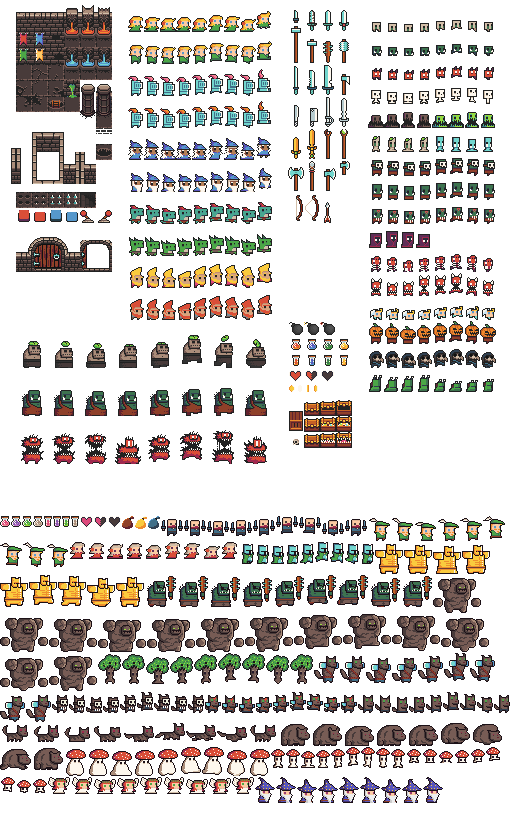
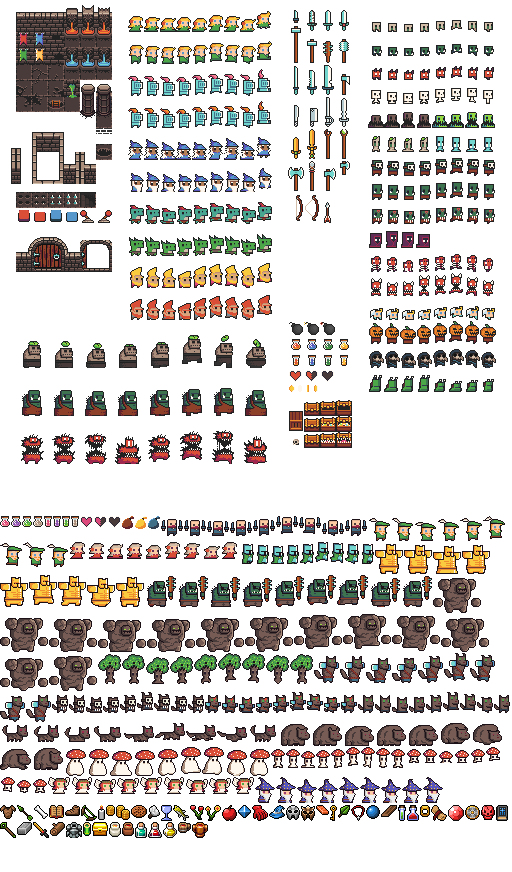
Add files via upload

diff --git a/play/assets/atlas.js b/play/assets/atlas.js
@@ -1,1 +1,1 @@
-window.ATLAS={"big_demon_idle_anim_f0":[16,428,32,36],"big_demon_idle_anim_f1":[48,428,32,36],"big_demon_idle_anim_f2":[80,428,32,36],"big_demon_idle_anim_f3":[112,428,32,36],"big_demon_run_anim_f0":[144,428,32,36],"big_demon_run_anim_f1":[176,428,32,36],"big_demon_run_anim_f2":[208,428,32,36],"big_demon_run_anim_f3":[240,428,32,36],"big_zombie_idle_anim_f0":[16,332,32,36],"big_zombie_idle_anim_f1":[48,332,32,36],"big_zombie_idle_anim_f2":[80,332,32,36],"big_zombie_idle_anim_f3":[112,332,32,36],"big_zombie_run_anim_f0":[144,332,32,36],"big_zombie_run_anim_f1":[176,332,32,36],"big_zombie_run_anim_f2":[208,332,32,36],"big_zombie_run_anim_f3":[240,332,32,36],"bomb_f0":[288,320,16,16],"bomb_f1":[304,320,16,16],"bomb_f2":[320,320,16,16],"chest_empty_open_anim_f0":[304,400,16,16],"chest_empty_open_anim_f1":[320,400,16,16],"chest_empty_open_anim_f2":[336,400,16,16],"chest_full_open_anim_f0":[304,416,16,16],"chest_full_open_anim_f1":[320,416,16,16],"chest_full_open_anim_f2":[336,416,16,16],"chest_mimic_open_anim_f0":[304,432,16,16],"chest_mimic_open_anim_f1":[320,432,16,16],"chest_mimic_open_anim_f2":[336,432,16,16],"coin_anim_f0":[289,385,6,7],"coin_anim_f1":[297,385,6,7],"coin_anim_f2":[305,385,6,7],"coin_anim_f3":[313,385,6,7],"flask_big_blue":[304,336,16,16],"flask_big_red":[288,336,16,16],"flask_big_green":[320,336,16,16],"flask_big_yellow":[336,336,16,16],"flask_blue":[304,352,16,16],"flask_red":[288,352,16,16],"flask_green":[320,352,16,16],"flask_yellow":[336,352,16,16],"wizzard_f_hit_anim_f0":[256,132,16,28],"wizzard_f_idle_anim_f0":[128,132,16,28],"wizzard_f_idle_anim_f1":[144,132,16,28],"wizzard_f_idle_anim_f2":[160,132,16,28],"wizzard_f_idle_anim_f3":[176,132,16,28],"wizzard_f_run_anim_f0":[192,132,16,28],"wizzard_f_run_anim_f1":[208,132,16,28],"wizzard_f_run_anim_f2":[224,132,16,28],"wizzard_f_run_anim_f3":[240,132,16,28],"wizzard_m_hit_anim_f0":[256,164,16,28],"wizzard_m_idle_anim_f0":[128,164,16,28],"wizzard_m_idle_anim_f1":[144,164,16,28],"wizzard_m_idle_anim_f2":[160,164,16,28],"wizzard_m_idle_anim_f3":[176,164,16,28],"wizzard_m_run_anim_f0":[192,164,16,28],"wizzard_m_run_anim_f1":[208,164,16,28],"wizzard_m_run_anim_f2":[224,164,16,28],"wizzard_m_run_anim_f3":[240,164,16,28],"dwarf_m_idle_anim_f0":[128,292,16,28],"imp_idle_anim_f0":[368,64,16,16],"imp_idle_anim_f1":[384,64,16,16],"imp_idle_anim_f2":[400,64,16,16],"imp_idle_anim_f3":[416,64,16,16],"imp_run_anim_f0":[432,64,16,16],"imp_run_anim_f1":[448,64,16,16],"imp_run_anim_f2":[464,64,16,16],"imp_run_anim_f3":[480,64,16,16],"lizard_f_hit_anim_f0":[256,196,16,28],"lizard_f_idle_anim_f0":[128,196,16,28],"lizard_f_idle_anim_f1":[144,196,16,28],"lizard_f_idle_anim_f2":[160,196,16,28],"lizard_f_idle_anim_f3":[176,196,16,28],"lizard_f_run_anim_f0":[192,196,16,28],"lizard_f_run_anim_f1":[208,196,16,28],"lizard_f_run_anim_f2":[224,196,16,28],"lizard_f_run_anim_f3":[240,196,16,28],"dwarf_m_idle_anim_f1":[144,292,16,28],"dwarf_m_idle_anim_f2":[160,292,16,28],"dwarf_m_idle_anim_f3":[176,292,16,28],"dwarf_m_run_anim_f0":[192,292,16,28],"dwarf_m_run_anim_f1":[208,292,16,28],"dwarf_m_run_anim_f2":[224,292,16,28],"dwarf_m_run_anim_f3":[240,292,16,28],"dwarf_m_hit_anim_f0":[256,292,16,28],"knight_f_hit_anim_f0":[256,68,16,28],"knight_f_idle_anim_f0":[128,68,16,28],"knight_f_idle_anim_f1":[144,68,16,28],"knight_f_idle_anim_f2":[160,68,16,28],"knight_f_idle_anim_f3":[176,68,16,28],"knight_f_run_anim_f0":[192,68,16,28],"knight_f_run_anim_f1":[208,68,16,28],"knight_f_run_anim_f2":[224,68,16,28],"knight_f_run_anim_f3":[240,68,16,28],"dwarf_f_idle_anim_f0":[128,260,16,28],"dwarf_f_idle_anim_f1":[144,260,16,28],"dwarf_f_idle_anim_f2":[160,260,16,28],"dwarf_f_idle_anim_f3":[176,260,16,28],"dwarf_f_run_anim_f0":[192,260,16,28],"dwarf_f_run_anim_f1":[208,260,16,28],"dwarf_f_run_anim_f2":[224,260,16,28],"dwarf_f_run_anim_f3":[240,260,16,28],"dwarf_f_hit_anim_f0":[256,260,16,28],"weapon_anime_sword":[322,65,12,30],"weapon_arrow":[324,202,7,21],"weapon_baton_with_spikes":[323,41,10,22],"weapon_big_hammer":[291,26,10,37],"weapon_bow":[289,195,14,26],"weapon_bow_2":[305,195,14,26],"weapon_double_axe":[288,167,16,24],"weapon_cleaver":[310,108,9,19],"weapon_duel_sword":[325,97,9,30],"weapon_golden_sword":[291,137,10,22],"weapon_green_magic_staff":[340,129,8,30],"weapon_hammer":[307,39,10,24],"weapon_katana":[293,66,6,29],"weapon_knife":[293,10,6,13],"weapon_knight_sword":[339,98,10,29],"weapon_lavish_sword":[307,129,10,30],"weapon_mace":[339,39,10,24],"weapon_saw_sword":[307,70,10,25],"weapon_machete":[294,105,5,22],"weapon_red_gem_sword":[339,10,10,21],"weapon_red_magic_staff":[324,129,8,30],"weapon_regular_sword":[323,10,10,21],"weapon_rusty_sword":[307,10,10,21],"weapon_spear":[309,161,6,30],"weapon_waraxe":[324,168,12,23],"weapon_throwing_axe":[340,161,10,14],"weapon_axe":[341,74,9,21],"wogol_idle_anim_f0":[368,249,16,23],"wogol_idle_anim_f1":[384,249,16,23],"wogol_idle_anim_f2":[400,249,16,23],"wogol_idle_anim_f3":[416,249,16,23],"wogol_run_anim_f0":[432,249,16,23],"wogol_run_anim_f1":[448,249,16,23],"wogol_run_anim_f2":[464,249,16,23],"wogol_run_anim_f3":[480,249,16,23],"zombie_anim_f10":[368,136,16,16],"zombie_anim_f1":[384,136,16,16],"zombie_anim_f2":[400,136,16,16],"zombie_anim_f3":[416,136,16,16],"tiny_zombie_idle_anim_f0":[368,16,16,16],"tiny_zombie_idle_anim_f1":[384,16,16,16],"tiny_zombie_idle_anim_f2":[400,16,16,16],"tiny_zombie_idle_anim_f3":[416,16,16,16],"tiny_zombie_run_anim_f0":[432,16,16,16],"tiny_zombie_run_anim_f1":[448,16,16,16],"tiny_zombie_run_anim_f2":[464,16,16,16],"tiny_zombie_run_anim_f3":[480,16,16,16],"goblin_idle_anim_f0":[368,40,16,16],"goblin_idle_anim_f1":[384,40,16,16],"goblin_idle_anim_f2":[400,40,16,16],"goblin_idle_anim_f3":[416,40,16,16],"goblin_run_anim_f0":[432,40,16,16],"goblin_run_anim_f1":[448,40,16,16],"goblin_run_anim_f2":[464,40,16,16],"goblin_run_anim_f3":[480,40,16,16],"ice_zombie_anim_f0":[432,136,16,16],"ice_zombie_anim_f1":[448,136,16,16],"ice_zombie_anim_f2":[464,136,16,16],"ice_zombie_anim_f3":[480,136,16,16],"knight_m_idle_anim_f0":[128,100,16,28],"knight_m_idle_anim_f1":[144,100,16,28],"knight_m_idle_anim_f2":[160,100,16,28],"knight_m_idle_anim_f3":[176,100,16,28],"knight_m_run_anim_f0":[192,100,16,28],"knight_m_run_anim_f1":[208,100,16,28],"knight_m_run_anim_f2":[224,100,16,28],"knight_m_run_anim_f3":[240,100,16,28],"knight_m_hit_anim_f0":[256,100,16,28],"crate":[288,408,16,24],"edge_down":[96,128,16,16],"orc_shaman_idle_anim_f0":[368,201,16,23],"orc_shaman_idle_anim_f1":[384,201,16,23],"orc_shaman_idle_anim_f2":[400,201,16,23],"orc_shaman_idle_anim_f3":[416,201,16,23],"orc_shaman_run_anim_f0":[432,201,16,23],"orc_shaman_run_anim_f1":[448,201,16,23],"orc_shaman_run_anim_f2":[464,201,16,23],"orc_shaman_run_anim_f3":[480,201,16,23],"swampy_anim_f0":[432,112,16,16],"swampy_anim_f1":[448,112,16,16],"swampy_anim_f2":[464,112,16,16],"swampy_anim_f3":[480,112,16,16],"muddy_anim_f0":[368,112,16,16],"muddy_anim_f1":[384,112,16,16],"muddy_anim_f2":[400,112,16,16],"muddy_anim_f3":[416,112,16,16],"necromancer_anim_f0":[368,225,16,23],"necromancer_anim_f1":[384,225,16,23],"necromancer_anim_f2":[400,225,16,23],"necromancer_anim_f3":[416,225,16,23],"masked_orc_idle_anim_f0":[368,153,16,23],"masked_orc_idle_anim_f1":[384,153,16,23],"masked_orc_idle_anim_f2":[400,153,16,23],"masked_orc_idle_anim_f3":[416,153,16,23],"masked_orc_run_anim_f0":[432,153,16,23],"masked_orc_run_anim_f1":[448,153,16,23],"masked_orc_run_anim_f2":[464,153,16,23],"masked_orc_run_anim_f3":[480,153,16,23],"orc_warrior_idle_anim_f0":[368,177,16,23],"orc_warrior_idle_anim_f1":[384,177,16,23],"orc_warrior_idle_anim_f2":[400,177,16,23],"orc_warrior_idle_anim_f3":[416,177,16,23],"orc_warrior_run_anim_f0":[432,177,16,23],"orc_warrior_run_anim_f1":[448,177,16,23],"orc_warrior_run_anim_f2":[464,177,16,23],"orc_warrior_run_anim_f3":[480,177,16,23],"skelet_idle_anim_f0":[368,88,16,16],"skelet_idle_anim_f1":[384,88,16,16],"skelet_idle_anim_f2":[400,88,16,16],"skelet_idle_anim_f3":[416,88,16,16],"skelet_run_anim_f0":[432,88,16,16],"skelet_run_anim_f1":[448,88,16,16],"skelet_run_anim_f2":[464,88,16,16],"skelet_run_anim_f3":[480,88,16,16],"skull":[288,432,16,16],"ogre_idle_anim_f0":[16,380,32,36],"ogre_idle_anim_f1":[48,380,32,36],"ogre_idle_anim_f2":[80,380,32,36],"ogre_idle_anim_f3":[112,380,32,36],"ogre_run_anim_f0":[144,380,32,36],"ogre_run_anim_f1":[176,380,32,36],"ogre_run_anim_f2":[208,380,32,36],"ogre_run_anim_f3":[240,380,32,36],"ui_heart_empty":[321,370,13,12],"ui_heart_full":[289,370,13,12],"ui_heart_half":[305,370,13,12],"doc_idle_anim_f0":[368,345,16,23],"doc_idle_anim_f1":[384,345,16,23],"doc_idle_anim_f2":[400,345,16,23],"doc_idle_anim_f3":[416,345,16,23],"doc_run_anim_f0":[432,345,16,23],"doc_run_anim_f1":[448,345,16,23],"doc_run_anim_f2":[464,345,16,23],"doc_run_anim_f3":[480,345,16,23],"pumpkin_dude_idle_anim_f0":[368,321,16,23],"pumpkin_dude_idle_anim_f1":[384,321,16,23],"pumpkin_dude_idle_anim_f2":[400,321,16,23],"pumpkin_dude_idle_anim_f3":[416,321,16,23],"pumpkin_dude_run_anim_f0":[432,321,16,23],"pumpkin_dude_run_anim_f1":[448,321,16,23],"pumpkin_dude_run_anim_f2":[464,321,16,23],"pumpkin_dude_run_anim_f3":[480,321,16,23],"angel_idle_anim_f0":[368,304,16,16],"angel_idle_anim_f1":[384,304,16,16],"angel_idle_anim_f2":[400,304,16,16],"angel_idle_anim_f3":[416,304,16,16],"angel_run_anim_f0":[432,304,16,16],"angel_run_anim_f1":[448,304,16,16],"angel_run_anim_f2":[464,304,16,16],"angel_run_anim_f3":[480,304,16,16],"chort_idle_anim_f0":[368,273,16,23],"chort_idle_anim_f1":[384,273,16,23],"chort_idle_anim_f2":[400,273,16,23],"chort_idle_anim_f3":[416,273,16,23],"chort_run_anim_f0":[432,273,16,23],"chort_run_anim_f1":[448,273,16,23],"chort_run_anim_f2":[464,273,16,23],"chort_run_anim_f3":[480,273,16,23],"column":[80,80,16,48],"column_wall":[96,80,16,48],"wall_fountain_mid_blue_anim_f0":[64,48,16,16],"wall_fountain_mid_blue_anim_f1":[80,48,16,16],"wall_fountain_mid_blue_anim_f2":[96,48,16,16],"wall_fountain_mid_red_anim_f0":[64,16,16,16],"wall_fountain_mid_red_anim_f1":[80,16,16,16],"wall_fountain_mid_red_anim_f2":[96,16,16,16],"wall_fountain_basin_red_anim_f0":[64,32,16,16],"wall_fountain_basin_red_anim_f1":[80,32,16,16],"wall_fountain_basin_red_anim_f2":[96,32,16,16],"wall_fountain_basin_blue_anim_f0":[64,64,16,16],"wall_fountain_basin_blue_anim_f1":[80,64,16,16],"wall_fountain_basin_blue_anim_f2":[96,64,16,16],"wall_goo_base":[64,96,16,16],"wall_goo":[64,80,16,16],"wall_hole_1":[48,32,16,16],"wall_hole_2":[48,48,16,16],"wall_banner_blue":[32,32,16,16],"wall_banner_red":[16,32,16,16],"wall_banner_green":[16,48,16,16],"wall_banner_yellow":[32,48,16,16],"floor_ladder":[48,96,16,16],"floor_spikes_anim_f0":[16,192,16,16],"floor_spikes_anim_f1":[32,192,16,16],"floor_spikes_anim_f2":[48,192,16,16],"floor_spikes_anim_f3":[64,192,16,16],"hole":[96,144,16,16],"floor_stairs":[80,192,16,16],"floor_1":[16,64,16,16],"floor_2":[32,64,16,16],"floor_3":[48,64,16,16],"floor_4":[16,80,16,16],"floor_5":[32,80,16,16],"floor_6":[48,80,16,16],"floor_7":[16,96,16,16],"floor_8":[32,96,16,16],"wall_left":[16,16,16,16],"wall_mid":[32,16,16,16],"wall_right":[48,16,16,16],"wall_top_left":[16,0,16,16],"wall_top_mid":[32,0,16,16],"wall_top_right":[48,0,16,16],"lizard_m_idle_anim_f0":[128,228,16,28],"lizard_m_idle_anim_f1":[144,228,16,28],"lizard_m_idle_anim_f2":[160,228,16,28],"lizard_m_idle_anim_f3":[176,228,16,28],"lizard_m_run_anim_f0":[192,228,16,28],"lizard_m_run_anim_f1":[208,228,16,28],"lizard_m_run_anim_f2":[224,228,16,28],"lizard_m_run_anim_f3":[240,228,16,28],"lizard_m_hit_anim_f0":[256,228,16,28],"elf_f_idle_anim_f0":[128,4,16,28],"elf_f_idle_anim_f1":[144,4,16,28],"elf_f_idle_anim_f2":[160,4,16,28],"elf_f_idle_anim_f3":[176,4,16,28],"elf_f_run_anim_f0":[192,4,16,28],"elf_f_run_anim_f1":[208,4,16,28],"elf_f_run_anim_f2":[224,4,16,28],"elf_f_run_anim_f3":[240,4,16,28],"elf_f_hit_anim_f0":[256,4,16,28],"elf_m_idle_anim_f0":[128,36,16,28],"elf_m_idle_anim_f1":[144,36,16,28],"elf_m_idle_anim_f2":[160,36,16,28],"elf_m_idle_anim_f3":[176,36,16,28],"elf_m_run_anim_f0":[192,36,16,28],"elf_m_run_anim_f1":[208,36,16,28],"elf_m_run_anim_f2":[224,36,16,28],"elf_m_run_anim_f3":[240,36,16,28],"elf_m_hit_anim_f0":[256,36,16,28],"button_red_up":[16,208,16,16],"button_red_down":[32,208,16,16],"button_blue_up":[48,208,16,16],"button_blue_down":[64,208,16,16],"lever_left":[80,208,16,16],"lever_right":[96,208,16,16],"doors_frame_left":[16,240,16,32],"doors_frame_right":[64,240,16,32],"doors_frame_top":[32,224,32,16],"doors_leaf_closed":[32,240,32,32],"doors_leaf_open":[80,240,32,32],"wall_edge_bottom_left":[32,168,16,16],"wall_edge_bottom_right":[48,168,16,16],"wall_edge_mid_left":[32,152,16,16],"wall_edge_top_left":[31,120,16,16],"wall_edge_left":[32,136,16,16],"wall_edge_top_right":[48,120,16,16],"wall_edge_right":[48,136,16,16],"wall_edge_mid_right":[48,152,16,16],"wall_edge_tshape_bottom_right":[64,152,16,16],"wall_edge_tshape_bottom_left":[80,152,16,16],"wall_edge_tshape_right":[64,168,16,16],"wall_edge_tshape_left":[80,168,16,16],"wall_outer_front_right":[16,168,16,16],"wall_outer_front_left":[0,168,16,16],"wall_outer_mid_left":[0,152,16,16],"wall_outer_top_left":[0,136,16,16],"wall_outer_top_right":[16,136,16,16],"wall_outer_mid_right":[16,152,16,16],"wall_fountain_top_1":[64,0,16,16],"wall_fountain_top_2":[80,0,16,16],"wall_fountain_top_3":[96,0,16,16],"slug_anim_f0":[368,369,16,23],"slug_anim_f1":[384,369,16,23],"slug_anim_f2":[400,369,16,23],"slug_anim_f3":[416,369,16,23],"tiny_slug_anim_f0":[432,376,16,16],"tiny_slug_anim_f1":[448,376,16,16],"tiny_slug_anim_f2":[464,376,16,16],"tiny_slug_anim_f3":[480,376,16,16],"flask_big_pink":[0,516,10,11],"flask_big_purple":[11,516,10,11],"flask_big_lime":[22,516,10,11],"flask_big_beige":[33,516,10,11],"flask_pink":[44,516,8,11],"flask_purple":[53,516,8,11],"flask_lime":[62,516,8,11],"flask_beige":[71,516,8,11],"ui_heart_pink_full":[80,516,13,12],"ui_heart_pink_half":[94,516,13,12],"ui_heart_pink_empty":[108,516,13,12],"bag_brown":[122,516,12,13],"bag_gold":[135,516,12,13],"bag_blue":[148,516,12,13],"bandit_idle_anim_f0":[161,516,22,20],"bandit_idle_anim_f1":[184,516,22,20],"bandit_idle_anim_f2":[207,516,22,20],"bandit_idle_anim_f3":[230,516,22,20],"bandit_run_anim_f0":[253,516,22,20],"bandit_run_anim_f1":[276,516,22,20],"bandit_run_anim_f2":[299,516,22,20],"bandit_run_anim_f3":[322,516,22,20],"bandit_hit_anim_f0":[345,516,22,20],"ranger_idle_anim_f0":[368,516,22,25],"ranger_idle_anim_f1":[391,516,22,25],"ranger_idle_anim_f2":[414,516,22,25],"ranger_idle_anim_f3":[437,516,22,25],"ranger_run_anim_f0":[460,516,22,25],"ranger_run_anim_f1":[483,516,22,25],"ranger_run_anim_f2":[0,542,22,25],"ranger_run_anim_f3":[23,542,22,25],"ranger_hit_anim_f0":[46,542,22,25],"elfpr_idle_anim_f0":[69,542,18,17],"elfpr_idle_anim_f1":[88,542,18,17],"elfpr_idle_anim_f2":[107,542,18,17],"elfpr_idle_anim_f3":[126,542,18,17],"elfpr_run_anim_f0":[145,542,18,17],"elfpr_run_anim_f1":[164,542,18,17],"elfpr_run_anim_f2":[183,542,18,17],"elfpr_run_anim_f3":[202,542,18,17],"elfpr_hit_anim_f0":[221,542,18,17],"eknight_idle_anim_f0":[240,542,14,22],"eknight_idle_anim_f1":[255,542,14,22],"eknight_idle_anim_f2":[270,542,14,22],"eknight_idle_anim_f3":[285,542,14,22],"eknight_run_anim_f0":[300,542,14,22],"eknight_run_anim_f1":[315,542,14,22],"eknight_run_anim_f2":[330,542,14,22],"eknight_run_anim_f3":[345,542,14,22],"eknight_hit_anim_f0":[360,542,14,22],"fguard_idle_anim_f0":[375,542,28,32],"fguard_idle_anim_f1":[404,542,28,32],"fguard_idle_anim_f2":[433,542,28,32],"fguard_idle_anim_f3":[462,542,28,32],"fguard_run_anim_f0":[0,575,28,32],"fguard_run_anim_f1":[29,575,28,32],"fguard_run_anim_f2":[58,575,28,32],"fguard_run_anim_f3":[87,575,28,32],"fguard_hit_anim_f0":[116,575,28,32],"troll_idle_anim_f0":[145,575,31,32],"troll_idle_anim_f1":[177,575,31,32],"troll_idle_anim_f2":[209,575,31,32],"troll_idle_anim_f3":[241,575,31,32],"troll_run_anim_f0":[273,575,31,32],"troll_run_anim_f1":[305,575,31,32],"troll_run_anim_f2":[337,575,31,32],"troll_run_anim_f3":[369,575,31,32],"troll_hit_anim_f0":[401,575,31,32],"golem_idle_anim_f0":[433,575,48,38],"golem_idle_anim_f1":[0,614,48,38],"golem_idle_anim_f2":[49,614,48,38],"golem_idle_anim_f3":[98,614,48,38],"golem_idle_anim_f4":[147,614,48,38],"golem_idle_anim_f5":[196,614,48,38],"golem_run_anim_f0":[245,614,48,38],"golem_run_anim_f1":[294,614,48,38],"golem_run_anim_f2":[343,614,48,38],"golem_run_anim_f3":[392,614,48,38],"golem_run_anim_f4":[441,614,48,38],"golem_run_anim_f5":[0,653,48,38],"golem_hit_anim_f0":[49,653,48,38],"ent_idle_anim_f0":[98,653,23,31],"ent_idle_anim_f1":[122,653,23,31],"ent_idle_anim_f2":[146,653,23,31],"ent_idle_anim_f3":[170,653,23,31],"ent_run_anim_f0":[194,653,23,31],"ent_run_anim_f1":[218,653,23,31],"ent_run_anim_f2":[242,653,23,31],"ent_run_anim_f3":[266,653,23,31],"ent_hit_anim_f0":[290,653,23,31],"govr_idle_anim_f0":[314,653,25,30],"govr_idle_anim_f1":[340,653,25,30],"govr_idle_anim_f2":[366,653,25,30],"govr_idle_anim_f3":[392,653,25,30],"govr_run_anim_f0":[418,653,25,30],"govr_run_anim_f1":[444,653,25,30],"govr_run_anim_f2":[470,653,25,30],"govr_run_anim_f3":[0,692,25,30],"govr_hit_anim_f0":[26,692,25,30],"gshaman_idle_anim_f0":[52,692,16,21],"gshaman_idle_anim_f1":[69,692,16,21],"gshaman_idle_anim_f2":[86,692,16,21],"gshaman_idle_anim_f3":[103,692,16,21],"gshaman_run_anim_f0":[120,692,16,21],"gshaman_run_anim_f1":[137,692,16,21],"gshaman_run_anim_f2":[154,692,16,21],"gshaman_run_anim_f3":[171,692,16,21],"gshaman_hit_anim_f0":[188,692,16,21],"gbrute_idle_anim_f0":[205,692,16,21],"gbrute_idle_anim_f1":[222,692,16,21],"gbrute_idle_anim_f2":[239,692,16,21],"gbrute_idle_anim_f3":[256,692,16,21],"gbrute_run_anim_f0":[273,692,16,21],"gbrute_run_anim_f1":[290,692,16,21],"gbrute_run_anim_f2":[307,692,16,21],"gbrute_run_anim_f3":[324,692,16,21],"gbrute_hit_anim_f0":[341,692,16,21],"gscout_idle_anim_f0":[358,692,16,21],"gscout_idle_anim_f1":[375,692,16,21],"gscout_idle_anim_f2":[392,692,16,21],"gscout_idle_anim_f3":[409,692,16,21],"gscout_run_anim_f0":[426,692,16,21],"gscout_run_anim_f1":[443,692,16,21],"gscout_run_anim_f2":[460,692,16,21],"gscout_run_anim_f3":[477,692,16,21],"gscout_hit_anim_f0":[494,692,16,21],"wolf_idle_anim_f0":[0,723,30,19],"wolf_idle_anim_f1":[31,723,30,19],"wolf_idle_anim_f2":[62,723,30,19],"wolf_idle_anim_f3":[93,723,30,19],"wolf_run_anim_f0":[124,723,30,19],"wolf_run_anim_f1":[155,723,30,19],"wolf_run_anim_f2":[186,723,30,19],"wolf_run_anim_f3":[217,723,30,19],"wolf_hit_anim_f0":[248,723,30,19],"bear_idle_anim_f0":[279,723,31,23],"bear_idle_anim_f1":[311,723,31,23],"bear_idle_anim_f2":[343,723,31,23],"bear_idle_anim_f3":[375,723,31,23],"bear_run_anim_f0":[407,723,31,23],"bear_run_anim_f1":[439,723,31,23],"bear_run_anim_f2":[471,723,31,23],"bear_run_anim_f3":[0,747,31,23],"bear_hit_anim_f0":[32,747,31,23],"mushl_idle_anim_f0":[64,747,22,29],"mushl_idle_anim_f1":[87,747,22,29],"mushl_idle_anim_f2":[110,747,22,29],"mushl_idle_anim_f3":[133,747,22,29],"mushl_run_anim_f0":[156,747,22,29],"mushl_run_anim_f1":[179,747,22,29],"mushl_run_anim_f2":[202,747,22,29],"mushl_run_anim_f3":[225,747,22,29],"mushl_hit_anim_f0":[248,747,22,29],"mushn_idle_anim_f0":[271,747,14,21],"mushn_idle_anim_f1":[286,747,14,21],"mushn_idle_anim_f2":[301,747,14,21],"mushn_idle_anim_f3":[316,747,14,21],"mushn_run_anim_f0":[331,747,14,21],"mushn_run_anim_f1":[346,747,14,21],"mushn_run_anim_f2":[361,747,14,21],"mushn_run_anim_f3":[376,747,14,21],"mushn_hit_anim_f0":[391,747,14,21],"mushs_idle_anim_f0":[406,747,15,16],"mushs_idle_anim_f1":[422,747,15,16],"mushs_idle_anim_f2":[438,747,15,16],"mushs_idle_anim_f3":[454,747,15,16],"mushs_run_anim_f0":[470,747,15,16],"mushs_run_anim_f1":[486,747,15,16],"mushs_run_anim_f2":[0,777,15,16],"mushs_run_anim_f3":[16,777,15,16],"mushs_hit_anim_f0":[32,777,15,16],"fairy_idle_anim_f0":[48,777,22,17],"fairy_idle_anim_f1":[71,777,22,17],"fairy_idle_anim_f2":[94,777,22,17],"fairy_idle_anim_f3":[117,777,22,17],"fairy_run_anim_f0":[140,777,22,17],"fairy_run_anim_f1":[163,777,22,17],"fairy_run_anim_f2":[186,777,22,17],"fairy_run_anim_f3":[209,777,22,17],"fairy_hit_anim_f0":[232,777,22,17],"wizard_idle_anim_f0":[255,777,20,26],"wizard_idle_anim_f1":[276,777,20,26],"wizard_idle_anim_f2":[297,777,20,26],"wizard_idle_anim_f3":[318,777,20,26],"wizard_run_anim_f0":[339,777,20,26],"wizard_run_anim_f1":[360,777,20,26],"wizard_run_anim_f2":[381,777,20,26],"wizard_run_anim_f3":[402,777,20,26],"wizard_hit_anim_f0":[423,777,20,26]};
+window.ATLAS={"big_demon_idle_anim_f0":[16,428,32,36],"big_demon_idle_anim_f1":[48,428,32,36],"big_demon_idle_anim_f2":[80,428,32,36],"big_demon_idle_anim_f3":[112,428,32,36],"big_demon_run_anim_f0":[144,428,32,36],"big_demon_run_anim_f1":[176,428,32,36],"big_demon_run_anim_f2":[208,428,32,36],"big_demon_run_anim_f3":[240,428,32,36],"big_zombie_idle_anim_f0":[16,332,32,36],"big_zombie_idle_anim_f1":[48,332,32,36],"big_zombie_idle_anim_f2":[80,332,32,36],"big_zombie_idle_anim_f3":[112,332,32,36],"big_zombie_run_anim_f0":[144,332,32,36],"big_zombie_run_anim_f1":[176,332,32,36],"big_zombie_run_anim_f2":[208,332,32,36],"big_zombie_run_anim_f3":[240,332,32,36],"bomb_f0":[288,320,16,16],"bomb_f1":[304,320,16,16],"bomb_f2":[320,320,16,16],"chest_empty_open_anim_f0":[304,400,16,16],"chest_empty_open_anim_f1":[320,400,16,16],"chest_empty_open_anim_f2":[336,400,16,16],"chest_full_open_anim_f0":[304,416,16,16],"chest_full_open_anim_f1":[320,416,16,16],"chest_full_open_anim_f2":[336,416,16,16],"chest_mimic_open_anim_f0":[304,432,16,16],"chest_mimic_open_anim_f1":[320,432,16,16],"chest_mimic_open_anim_f2":[336,432,16,16],"coin_anim_f0":[289,385,6,7],"coin_anim_f1":[297,385,6,7],"coin_anim_f2":[305,385,6,7],"coin_anim_f3":[313,385,6,7],"flask_big_blue":[304,336,16,16],"flask_big_red":[288,336,16,16],"flask_big_green":[320,336,16,16],"flask_big_yellow":[336,336,16,16],"flask_blue":[304,352,16,16],"flask_red":[288,352,16,16],"flask_green":[320,352,16,16],"flask_yellow":[336,352,16,16],"wizzard_f_hit_anim_f0":[256,132,16,28],"wizzard_f_idle_anim_f0":[128,132,16,28],"wizzard_f_idle_anim_f1":[144,132,16,28],"wizzard_f_idle_anim_f2":[160,132,16,28],"wizzard_f_idle_anim_f3":[176,132,16,28],"wizzard_f_run_anim_f0":[192,132,16,28],"wizzard_f_run_anim_f1":[208,132,16,28],"wizzard_f_run_anim_f2":[224,132,16,28],"wizzard_f_run_anim_f3":[240,132,16,28],"wizzard_m_hit_anim_f0":[256,164,16,28],"wizzard_m_idle_anim_f0":[128,164,16,28],"wizzard_m_idle_anim_f1":[144,164,16,28],"wizzard_m_idle_anim_f2":[160,164,16,28],"wizzard_m_idle_anim_f3":[176,164,16,28],"wizzard_m_run_anim_f0":[192,164,16,28],"wizzard_m_run_anim_f1":[208,164,16,28],"wizzard_m_run_anim_f2":[224,164,16,28],"wizzard_m_run_anim_f3":[240,164,16,28],"dwarf_m_idle_anim_f0":[128,292,16,28],"imp_idle_anim_f0":[368,64,16,16],"imp_idle_anim_f1":[384,64,16,16],"imp_idle_anim_f2":[400,64,16,16],"imp_idle_anim_f3":[416,64,16,16],"imp_run_anim_f0":[432,64,16,16],"imp_run_anim_f1":[448,64,16,16],"imp_run_anim_f2":[464,64,16,16],"imp_run_anim_f3":[480,64,16,16],"lizard_f_hit_anim_f0":[256,196,16,28],"lizard_f_idle_anim_f0":[128,196,16,28],"lizard_f_idle_anim_f1":[144,196,16,28],"lizard_f_idle_anim_f2":[160,196,16,28],"lizard_f_idle_anim_f3":[176,196,16,28],"lizard_f_run_anim_f0":[192,196,16,28],"lizard_f_run_anim_f1":[208,196,16,28],"lizard_f_run_anim_f2":[224,196,16,28],"lizard_f_run_anim_f3":[240,196,16,28],"dwarf_m_idle_anim_f1":[144,292,16,28],"dwarf_m_idle_anim_f2":[160,292,16,28],"dwarf_m_idle_anim_f3":[176,292,16,28],"dwarf_m_run_anim_f0":[192,292,16,28],"dwarf_m_run_anim_f1":[208,292,16,28],"dwarf_m_run_anim_f2":[224,292,16,28],"dwarf_m_run_anim_f3":[240,292,16,28],"dwarf_m_hit_anim_f0":[256,292,16,28],"knight_f_hit_anim_f0":[256,68,16,28],"knight_f_idle_anim_f0":[128,68,16,28],"knight_f_idle_anim_f1":[144,68,16,28],"knight_f_idle_anim_f2":[160,68,16,28],"knight_f_idle_anim_f3":[176,68,16,28],"knight_f_run_anim_f0":[192,68,16,28],"knight_f_run_anim_f1":[208,68,16,28],"knight_f_run_anim_f2":[224,68,16,28],"knight_f_run_anim_f3":[240,68,16,28],"dwarf_f_idle_anim_f0":[128,260,16,28],"dwarf_f_idle_anim_f1":[144,260,16,28],"dwarf_f_idle_anim_f2":[160,260,16,28],"dwarf_f_idle_anim_f3":[176,260,16,28],"dwarf_f_run_anim_f0":[192,260,16,28],"dwarf_f_run_anim_f1":[208,260,16,28],"dwarf_f_run_anim_f2":[224,260,16,28],"dwarf_f_run_anim_f3":[240,260,16,28],"dwarf_f_hit_anim_f0":[256,260,16,28],"weapon_anime_sword":[322,65,12,30],"weapon_arrow":[324,202,7,21],"weapon_baton_with_spikes":[323,41,10,22],"weapon_big_hammer":[291,26,10,37],"weapon_bow":[289,195,14,26],"weapon_bow_2":[305,195,14,26],"weapon_double_axe":[288,167,16,24],"weapon_cleaver":[310,108,9,19],"weapon_duel_sword":[325,97,9,30],"weapon_golden_sword":[291,137,10,22],"weapon_green_magic_staff":[340,129,8,30],"weapon_hammer":[307,39,10,24],"weapon_katana":[293,66,6,29],"weapon_knife":[293,10,6,13],"weapon_knight_sword":[339,98,10,29],"weapon_lavish_sword":[307,129,10,30],"weapon_mace":[339,39,10,24],"weapon_saw_sword":[307,70,10,25],"weapon_machete":[294,105,5,22],"weapon_red_gem_sword":[339,10,10,21],"weapon_red_magic_staff":[324,129,8,30],"weapon_regular_sword":[323,10,10,21],"weapon_rusty_sword":[307,10,10,21],"weapon_spear":[309,161,6,30],"weapon_waraxe":[324,168,12,23],"weapon_throwing_axe":[340,161,10,14],"weapon_axe":[341,74,9,21],"wogol_idle_anim_f0":[368,249,16,23],"wogol_idle_anim_f1":[384,249,16,23],"wogol_idle_anim_f2":[400,249,16,23],"wogol_idle_anim_f3":[416,249,16,23],"wogol_run_anim_f0":[432,249,16,23],"wogol_run_anim_f1":[448,249,16,23],"wogol_run_anim_f2":[464,249,16,23],"wogol_run_anim_f3":[480,249,16,23],"zombie_anim_f10":[368,136,16,16],"zombie_anim_f1":[384,136,16,16],"zombie_anim_f2":[400,136,16,16],"zombie_anim_f3":[416,136,16,16],"tiny_zombie_idle_anim_f0":[368,16,16,16],"tiny_zombie_idle_anim_f1":[384,16,16,16],"tiny_zombie_idle_anim_f2":[400,16,16,16],"tiny_zombie_idle_anim_f3":[416,16,16,16],"tiny_zombie_run_anim_f0":[432,16,16,16],"tiny_zombie_run_anim_f1":[448,16,16,16],"tiny_zombie_run_anim_f2":[464,16,16,16],"tiny_zombie_run_anim_f3":[480,16,16,16],"goblin_idle_anim_f0":[368,40,16,16],"goblin_idle_anim_f1":[384,40,16,16],"goblin_idle_anim_f2":[400,40,16,16],"goblin_idle_anim_f3":[416,40,16,16],"goblin_run_anim_f0":[432,40,16,16],"goblin_run_anim_f1":[448,40,16,16],"goblin_run_anim_f2":[464,40,16,16],"goblin_run_anim_f3":[480,40,16,16],"ice_zombie_anim_f0":[432,136,16,16],"ice_zombie_anim_f1":[448,136,16,16],"ice_zombie_anim_f2":[464,136,16,16],"ice_zombie_anim_f3":[480,136,16,16],"knight_m_idle_anim_f0":[128,100,16,28],"knight_m_idle_anim_f1":[144,100,16,28],"knight_m_idle_anim_f2":[160,100,16,28],"knight_m_idle_anim_f3":[176,100,16,28],"knight_m_run_anim_f0":[192,100,16,28],"knight_m_run_anim_f1":[208,100,16,28],"knight_m_run_anim_f2":[224,100,16,28],"knight_m_run_anim_f3":[240,100,16,28],"knight_m_hit_anim_f0":[256,100,16,28],"crate":[288,408,16,24],"edge_down":[96,128,16,16],"orc_shaman_idle_anim_f0":[368,201,16,23],"orc_shaman_idle_anim_f1":[384,201,16,23],"orc_shaman_idle_anim_f2":[400,201,16,23],"orc_shaman_idle_anim_f3":[416,201,16,23],"orc_shaman_run_anim_f0":[432,201,16,23],"orc_shaman_run_anim_f1":[448,201,16,23],"orc_shaman_run_anim_f2":[464,201,16,23],"orc_shaman_run_anim_f3":[480,201,16,23],"swampy_anim_f0":[432,112,16,16],"swampy_anim_f1":[448,112,16,16],"swampy_anim_f2":[464,112,16,16],"swampy_anim_f3":[480,112,16,16],"muddy_anim_f0":[368,112,16,16],"muddy_anim_f1":[384,112,16,16],"muddy_anim_f2":[400,112,16,16],"muddy_anim_f3":[416,112,16,16],"necromancer_anim_f0":[368,225,16,23],"necromancer_anim_f1":[384,225,16,23],"necromancer_anim_f2":[400,225,16,23],"necromancer_anim_f3":[416,225,16,23],"masked_orc_idle_anim_f0":[368,153,16,23],"masked_orc_idle_anim_f1":[384,153,16,23],"masked_orc_idle_anim_f2":[400,153,16,23],"masked_orc_idle_anim_f3":[416,153,16,23],"masked_orc_run_anim_f0":[432,153,16,23],"masked_orc_run_anim_f1":[448,153,16,23],"masked_orc_run_anim_f2":[464,153,16,23],"masked_orc_run_anim_f3":[480,153,16,23],"orc_warrior_idle_anim_f0":[368,177,16,23],"orc_warrior_idle_anim_f1":[384,177,16,23],"orc_warrior_idle_anim_f2":[400,177,16,23],"orc_warrior_idle_anim_f3":[416,177,16,23],"orc_warrior_run_anim_f0":[432,177,16,23],"orc_warrior_run_anim_f1":[448,177,16,23],"orc_warrior_run_anim_f2":[464,177,16,23],"orc_warrior_run_anim_f3":[480,177,16,23],"skelet_idle_anim_f0":[368,88,16,16],"skelet_idle_anim_f1":[384,88,16,16],"skelet_idle_anim_f2":[400,88,16,16],"skelet_idle_anim_f3":[416,88,16,16],"skelet_run_anim_f0":[432,88,16,16],"skelet_run_anim_f1":[448,88,16,16],"skelet_run_anim_f2":[464,88,16,16],"skelet_run_anim_f3":[480,88,16,16],"skull":[288,432,16,16],"ogre_idle_anim_f0":[16,380,32,36],"ogre_idle_anim_f1":[48,380,32,36],"ogre_idle_anim_f2":[80,380,32,36],"ogre_idle_anim_f3":[112,380,32,36],"ogre_run_anim_f0":[144,380,32,36],"ogre_run_anim_f1":[176,380,32,36],"ogre_run_anim_f2":[208,380,32,36],"ogre_run_anim_f3":[240,380,32,36],"ui_heart_empty":[321,370,13,12],"ui_heart_full":[289,370,13,12],"ui_heart_half":[305,370,13,12],"doc_idle_anim_f0":[368,345,16,23],"doc_idle_anim_f1":[384,345,16,23],"doc_idle_anim_f2":[400,345,16,23],"doc_idle_anim_f3":[416,345,16,23],"doc_run_anim_f0":[432,345,16,23],"doc_run_anim_f1":[448,345,16,23],"doc_run_anim_f2":[464,345,16,23],"doc_run_anim_f3":[480,345,16,23],"pumpkin_dude_idle_anim_f0":[368,321,16,23],"pumpkin_dude_idle_anim_f1":[384,321,16,23],"pumpkin_dude_idle_anim_f2":[400,321,16,23],"pumpkin_dude_idle_anim_f3":[416,321,16,23],"pumpkin_dude_run_anim_f0":[432,321,16,23],"pumpkin_dude_run_anim_f1":[448,321,16,23],"pumpkin_dude_run_anim_f2":[464,321,16,23],"pumpkin_dude_run_anim_f3":[480,321,16,23],"angel_idle_anim_f0":[368,304,16,16],"angel_idle_anim_f1":[384,304,16,16],"angel_idle_anim_f2":[400,304,16,16],"angel_idle_anim_f3":[416,304,16,16],"angel_run_anim_f0":[432,304,16,16],"angel_run_anim_f1":[448,304,16,16],"angel_run_anim_f2":[464,304,16,16],"angel_run_anim_f3":[480,304,16,16],"chort_idle_anim_f0":[368,273,16,23],"chort_idle_anim_f1":[384,273,16,23],"chort_idle_anim_f2":[400,273,16,23],"chort_idle_anim_f3":[416,273,16,23],"chort_run_anim_f0":[432,273,16,23],"chort_run_anim_f1":[448,273,16,23],"chort_run_anim_f2":[464,273,16,23],"chort_run_anim_f3":[480,273,16,23],"column":[80,80,16,48],"column_wall":[96,80,16,48],"wall_fountain_mid_blue_anim_f0":[64,48,16,16],"wall_fountain_mid_blue_anim_f1":[80,48,16,16],"wall_fountain_mid_blue_anim_f2":[96,48,16,16],"wall_fountain_mid_red_anim_f0":[64,16,16,16],"wall_fountain_mid_red_anim_f1":[80,16,16,16],"wall_fountain_mid_red_anim_f2":[96,16,16,16],"wall_fountain_basin_red_anim_f0":[64,32,16,16],"wall_fountain_basin_red_anim_f1":[80,32,16,16],"wall_fountain_basin_red_anim_f2":[96,32,16,16],"wall_fountain_basin_blue_anim_f0":[64,64,16,16],"wall_fountain_basin_blue_anim_f1":[80,64,16,16],"wall_fountain_basin_blue_anim_f2":[96,64,16,16],"wall_goo_base":[64,96,16,16],"wall_goo":[64,80,16,16],"wall_hole_1":[48,32,16,16],"wall_hole_2":[48,48,16,16],"wall_banner_blue":[32,32,16,16],"wall_banner_red":[16,32,16,16],"wall_banner_green":[16,48,16,16],"wall_banner_yellow":[32,48,16,16],"floor_ladder":[48,96,16,16],"floor_spikes_anim_f0":[16,192,16,16],"floor_spikes_anim_f1":[32,192,16,16],"floor_spikes_anim_f2":[48,192,16,16],"floor_spikes_anim_f3":[64,192,16,16],"hole":[96,144,16,16],"floor_stairs":[80,192,16,16],"floor_1":[16,64,16,16],"floor_2":[32,64,16,16],"floor_3":[48,64,16,16],"floor_4":[16,80,16,16],"floor_5":[32,80,16,16],"floor_6":[48,80,16,16],"floor_7":[16,96,16,16],"floor_8":[32,96,16,16],"wall_left":[16,16,16,16],"wall_mid":[32,16,16,16],"wall_right":[48,16,16,16],"wall_top_left":[16,0,16,16],"wall_top_mid":[32,0,16,16],"wall_top_right":[48,0,16,16],"lizard_m_idle_anim_f0":[128,228,16,28],"lizard_m_idle_anim_f1":[144,228,16,28],"lizard_m_idle_anim_f2":[160,228,16,28],"lizard_m_idle_anim_f3":[176,228,16,28],"lizard_m_run_anim_f0":[192,228,16,28],"lizard_m_run_anim_f1":[208,228,16,28],"lizard_m_run_anim_f2":[224,228,16,28],"lizard_m_run_anim_f3":[240,228,16,28],"lizard_m_hit_anim_f0":[256,228,16,28],"elf_f_idle_anim_f0":[128,4,16,28],"elf_f_idle_anim_f1":[144,4,16,28],"elf_f_idle_anim_f2":[160,4,16,28],"elf_f_idle_anim_f3":[176,4,16,28],"elf_f_run_anim_f0":[192,4,16,28],"elf_f_run_anim_f1":[208,4,16,28],"elf_f_run_anim_f2":[224,4,16,28],"elf_f_run_anim_f3":[240,4,16,28],"elf_f_hit_anim_f0":[256,4,16,28],"elf_m_idle_anim_f0":[128,36,16,28],"elf_m_idle_anim_f1":[144,36,16,28],"elf_m_idle_anim_f2":[160,36,16,28],"elf_m_idle_anim_f3":[176,36,16,28],"elf_m_run_anim_f0":[192,36,16,28],"elf_m_run_anim_f1":[208,36,16,28],"elf_m_run_anim_f2":[224,36,16,28],"elf_m_run_anim_f3":[240,36,16,28],"elf_m_hit_anim_f0":[256,36,16,28],"button_red_up":[16,208,16,16],"button_red_down":[32,208,16,16],"button_blue_up":[48,208,16,16],"button_blue_down":[64,208,16,16],"lever_left":[80,208,16,16],"lever_right":[96,208,16,16],"doors_frame_left":[16,240,16,32],"doors_frame_right":[64,240,16,32],"doors_frame_top":[32,224,32,16],"doors_leaf_closed":[32,240,32,32],"doors_leaf_open":[80,240,32,32],"wall_edge_bottom_left":[32,168,16,16],"wall_edge_bottom_right":[48,168,16,16],"wall_edge_mid_left":[32,152,16,16],"wall_edge_top_left":[31,120,16,16],"wall_edge_left":[32,136,16,16],"wall_edge_top_right":[48,120,16,16],"wall_edge_right":[48,136,16,16],"wall_edge_mid_right":[48,152,16,16],"wall_edge_tshape_bottom_right":[64,152,16,16],"wall_edge_tshape_bottom_left":[80,152,16,16],"wall_edge_tshape_right":[64,168,16,16],"wall_edge_tshape_left":[80,168,16,16],"wall_outer_front_right":[16,168,16,16],"wall_outer_front_left":[0,168,16,16],"wall_outer_mid_left":[0,152,16,16],"wall_outer_top_left":[0,136,16,16],"wall_outer_top_right":[16,136,16,16],"wall_outer_mid_right":[16,152,16,16],"wall_fountain_top_1":[64,0,16,16],"wall_fountain_top_2":[80,0,16,16],"wall_fountain_top_3":[96,0,16,16],"slug_anim_f0":[368,369,16,23],"slug_anim_f1":[384,369,16,23],"slug_anim_f2":[400,369,16,23],"slug_anim_f3":[416,369,16,23],"tiny_slug_anim_f0":[432,376,16,16],"tiny_slug_anim_f1":[448,376,16,16],"tiny_slug_anim_f2":[464,376,16,16],"tiny_slug_anim_f3":[480,376,16,16],"flask_big_pink":[0,516,10,11],"flask_big_purple":[11,516,10,11],"flask_big_lime":[22,516,10,11],"flask_big_beige":[33,516,10,11],"flask_pink":[44,516,8,11],"flask_purple":[53,516,8,11],"flask_lime":[62,516,8,11],"flask_beige":[71,516,8,11],"ui_heart_pink_full":[80,516,13,12],"ui_heart_pink_half":[94,516,13,12],"ui_heart_pink_empty":[108,516,13,12],"bag_brown":[122,516,12,13],"bag_gold":[135,516,12,13],"bag_blue":[148,516,12,13],"bandit_idle_anim_f0":[161,516,22,20],"bandit_idle_anim_f1":[184,516,22,20],"bandit_idle_anim_f2":[207,516,22,20],"bandit_idle_anim_f3":[230,516,22,20],"bandit_run_anim_f0":[253,516,22,20],"bandit_run_anim_f1":[276,516,22,20],"bandit_run_anim_f2":[299,516,22,20],"bandit_run_anim_f3":[322,516,22,20],"bandit_hit_anim_f0":[345,516,22,20],"ranger_idle_anim_f0":[368,516,22,25],"ranger_idle_anim_f1":[391,516,22,25],"ranger_idle_anim_f2":[414,516,22,25],"ranger_idle_anim_f3":[437,516,22,25],"ranger_run_anim_f0":[460,516,22,25],"ranger_run_anim_f1":[483,516,22,25],"ranger_run_anim_f2":[0,542,22,25],"ranger_run_anim_f3":[23,542,22,25],"ranger_hit_anim_f0":[46,542,22,25],"elfpr_idle_anim_f0":[69,542,18,17],"elfpr_idle_anim_f1":[88,542,18,17],"elfpr_idle_anim_f2":[107,542,18,17],"elfpr_idle_anim_f3":[126,542,18,17],"elfpr_run_anim_f0":[145,542,18,17],"elfpr_run_anim_f1":[164,542,18,17],"elfpr_run_anim_f2":[183,542,18,17],"elfpr_run_anim_f3":[202,542,18,17],"elfpr_hit_anim_f0":[221,542,18,17],"eknight_idle_anim_f0":[240,542,14,22],"eknight_idle_anim_f1":[255,542,14,22],"eknight_idle_anim_f2":[270,542,14,22],"eknight_idle_anim_f3":[285,542,14,22],"eknight_run_anim_f0":[300,542,14,22],"eknight_run_anim_f1":[315,542,14,22],"eknight_run_anim_f2":[330,542,14,22],"eknight_run_anim_f3":[345,542,14,22],"eknight_hit_anim_f0":[360,542,14,22],"fguard_idle_anim_f0":[375,542,28,32],"fguard_idle_anim_f1":[404,542,28,32],"fguard_idle_anim_f2":[433,542,28,32],"fguard_idle_anim_f3":[462,542,28,32],"fguard_run_anim_f0":[0,575,28,32],"fguard_run_anim_f1":[29,575,28,32],"fguard_run_anim_f2":[58,575,28,32],"fguard_run_anim_f3":[87,575,28,32],"fguard_hit_anim_f0":[116,575,28,32],"troll_idle_anim_f0":[145,575,31,32],"troll_idle_anim_f1":[177,575,31,32],"troll_idle_anim_f2":[209,575,31,32],"troll_idle_anim_f3":[241,575,31,32],"troll_run_anim_f0":[273,575,31,32],"troll_run_anim_f1":[305,575,31,32],"troll_run_anim_f2":[337,575,31,32],"troll_run_anim_f3":[369,575,31,32],"troll_hit_anim_f0":[401,575,31,32],"golem_idle_anim_f0":[433,575,48,38],"golem_idle_anim_f1":[0,614,48,38],"golem_idle_anim_f2":[49,614,48,38],"golem_idle_anim_f3":[98,614,48,38],"golem_idle_anim_f4":[147,614,48,38],"golem_idle_anim_f5":[196,614,48,38],"golem_run_anim_f0":[245,614,48,38],"golem_run_anim_f1":[294,614,48,38],"golem_run_anim_f2":[343,614,48,38],"golem_run_anim_f3":[392,614,48,38],"golem_run_anim_f4":[441,614,48,38],"golem_run_anim_f5":[0,653,48,38],"golem_hit_anim_f0":[49,653,48,38],"ent_idle_anim_f0":[98,653,23,31],"ent_idle_anim_f1":[122,653,23,31],"ent_idle_anim_f2":[146,653,23,31],"ent_idle_anim_f3":[170,653,23,31],"ent_run_anim_f0":[194,653,23,31],"ent_run_anim_f1":[218,653,23,31],"ent_run_anim_f2":[242,653,23,31],"ent_run_anim_f3":[266,653,23,31],"ent_hit_anim_f0":[290,653,23,31],"govr_idle_anim_f0":[314,653,25,30],"govr_idle_anim_f1":[340,653,25,30],"govr_idle_anim_f2":[366,653,25,30],"govr_idle_anim_f3":[392,653,25,30],"govr_run_anim_f0":[418,653,25,30],"govr_run_anim_f1":[444,653,25,30],"govr_run_anim_f2":[470,653,25,30],"govr_run_anim_f3":[0,692,25,30],"govr_hit_anim_f0":[26,692,25,30],"gshaman_idle_anim_f0":[52,692,16,21],"gshaman_idle_anim_f1":[69,692,16,21],"gshaman_idle_anim_f2":[86,692,16,21],"gshaman_idle_anim_f3":[103,692,16,21],"gshaman_run_anim_f0":[120,692,16,21],"gshaman_run_anim_f1":[137,692,16,21],"gshaman_run_anim_f2":[154,692,16,21],"gshaman_run_anim_f3":[171,692,16,21],"gshaman_hit_anim_f0":[188,692,16,21],"gbrute_idle_anim_f0":[205,692,16,21],"gbrute_idle_anim_f1":[222,692,16,21],"gbrute_idle_anim_f2":[239,692,16,21],"gbrute_idle_anim_f3":[256,692,16,21],"gbrute_run_anim_f0":[273,692,16,21],"gbrute_run_anim_f1":[290,692,16,21],"gbrute_run_anim_f2":[307,692,16,21],"gbrute_run_anim_f3":[324,692,16,21],"gbrute_hit_anim_f0":[341,692,16,21],"gscout_idle_anim_f0":[358,692,16,21],"gscout_idle_anim_f1":[375,692,16,21],"gscout_idle_anim_f2":[392,692,16,21],"gscout_idle_anim_f3":[409,692,16,21],"gscout_run_anim_f0":[426,692,16,21],"gscout_run_anim_f1":[443,692,16,21],"gscout_run_anim_f2":[460,692,16,21],"gscout_run_anim_f3":[477,692,16,21],"gscout_hit_anim_f0":[494,692,16,21],"wolf_idle_anim_f0":[0,723,30,19],"wolf_idle_anim_f1":[31,723,30,19],"wolf_idle_anim_f2":[62,723,30,19],"wolf_idle_anim_f3":[93,723,30,19],"wolf_run_anim_f0":[124,723,30,19],"wolf_run_anim_f1":[155,723,30,19],"wolf_run_anim_f2":[186,723,30,19],"wolf_run_anim_f3":[217,723,30,19],"wolf_hit_anim_f0":[248,723,30,19],"bear_idle_anim_f0":[279,723,31,23],"bear_idle_anim_f1":[311,723,31,23],"bear_idle_anim_f2":[343,723,31,23],"bear_idle_anim_f3":[375,723,31,23],"bear_run_anim_f0":[407,723,31,23],"bear_run_anim_f1":[439,723,31,23],"bear_run_anim_f2":[471,723,31,23],"bear_run_anim_f3":[0,747,31,23],"bear_hit_anim_f0":[32,747,31,23],"mushl_idle_anim_f0":[64,747,22,29],"mushl_idle_anim_f1":[87,747,22,29],"mushl_idle_anim_f2":[110,747,22,29],"mushl_idle_anim_f3":[133,747,22,29],"mushl_run_anim_f0":[156,747,22,29],"mushl_run_anim_f1":[179,747,22,29],"mushl_run_anim_f2":[202,747,22,29],"mushl_run_anim_f3":[225,747,22,29],"mushl_hit_anim_f0":[248,747,22,29],"mushn_idle_anim_f0":[271,747,14,21],"mushn_idle_anim_f1":[286,747,14,21],"mushn_idle_anim_f2":[301,747,14,21],"mushn_idle_anim_f3":[316,747,14,21],"mushn_run_anim_f0":[331,747,14,21],"mushn_run_anim_f1":[346,747,14,21],"mushn_run_anim_f2":[361,747,14,21],"mushn_run_anim_f3":[376,747,14,21],"mushn_hit_anim_f0":[391,747,14,21],"mushs_idle_anim_f0":[406,747,15,16],"mushs_idle_anim_f1":[422,747,15,16],"mushs_idle_anim_f2":[438,747,15,16],"mushs_idle_anim_f3":[454,747,15,16],"mushs_run_anim_f0":[470,747,15,16],"mushs_run_anim_f1":[486,747,15,16],"mushs_run_anim_f2":[0,777,15,16],"mushs_run_anim_f3":[16,777,15,16],"mushs_hit_anim_f0":[32,777,15,16],"fairy_idle_anim_f0":[48,777,22,17],"fairy_idle_anim_f1":[71,777,22,17],"fairy_idle_anim_f2":[94,777,22,17],"fairy_idle_anim_f3":[117,777,22,17],"fairy_run_anim_f0":[140,777,22,17],"fairy_run_anim_f1":[163,777,22,17],"fairy_run_anim_f2":[186,777,22,17],"fairy_run_anim_f3":[209,777,22,17],"fairy_hit_anim_f0":[232,777,22,17],"wizard_idle_anim_f0":[255,777,20,26],"wizard_idle_anim_f1":[276,777,20,26],"wizard_idle_anim_f2":[297,777,20,26],"wizard_idle_anim_f3":[318,777,20,26],"wizard_run_anim_f0":[339,777,20,26],"wizard_run_anim_f1":[360,777,20,26],"wizard_run_anim_f2":[381,777,20,26],"wizard_run_anim_f3":[402,777,20,26],"wizard_hit_anim_f0":[423,777,20,26],"k_armor_01":[0,805,16,14],"k_arrow_02":[17,805,16,16],"k_bone01":[34,805,14,14],"k_book_03":[49,805,15,14],"k_boots_01":[65,805,15,11],"k_bow_03":[81,805,16,16],"k_candle_01":[98,805,7,15],"k_coin_03":[106,805,9,11],"k_coin_05":[116,805,14,15],"k_cookie_01":[131,805,16,13],"k_cotton_01":[148,805,12,14],"k_cup_02":[161,805,11,16],"k_fish_01":[173,805,16,16],"k_flower_01":[190,805,14,15],"k_flower_02":[205,805,16,16],"k_fruit_01":[222,805,15,16],"k_gem_01":[238,805,13,13],"k_gloves_01":[252,805,16,16],"k_hat_01":[269,805,16,14],"k_helmet_01":[286,805,14,15],"k_helmet_02":[301,805,14,16],"k_ingot_01":[316,805,13,10],"k_key_01":[330,805,7,16],"k_leaf_01":[338,805,12,13],"k_necklace_01":[351,805,14,16],"k_pearl_01":[366,805,14,14],"k_plank_01":[381,805,16,12],"k_potion_01":[398,805,8,16],"k_potion_03":[407,805,12,16],"k_ring_01":[420,805,10,12],"k_scroll_01":[431,805,16,16],"k_shard_01":[448,805,16,16],"k_shield_01":[465,805,15,15],"k_skull_01":[481,805,14,15],"k_spellbook_01":[496,805,12,16],"k_staff_03":[0,822,16,16],"k_stoneblock_01":[17,822,15,13],"k_sword_01":[33,822,16,16],"k_wood_01":[50,822,15,14],"sh_armour":[66,822,16,16],"sh_bamboo":[83,822,8,14],"sh_chest":[92,822,16,14],"sh_jar":[109,822,12,15],"sh_pot":[122,822,12,14],"sh_ptall":[135,822,12,16],"sh_ptri":[148,822,14,16],"sh_pwide":[163,822,14,16],"sh_tankard":[178,822,13,11],"sh_teapot":[192,822,16,16]};
